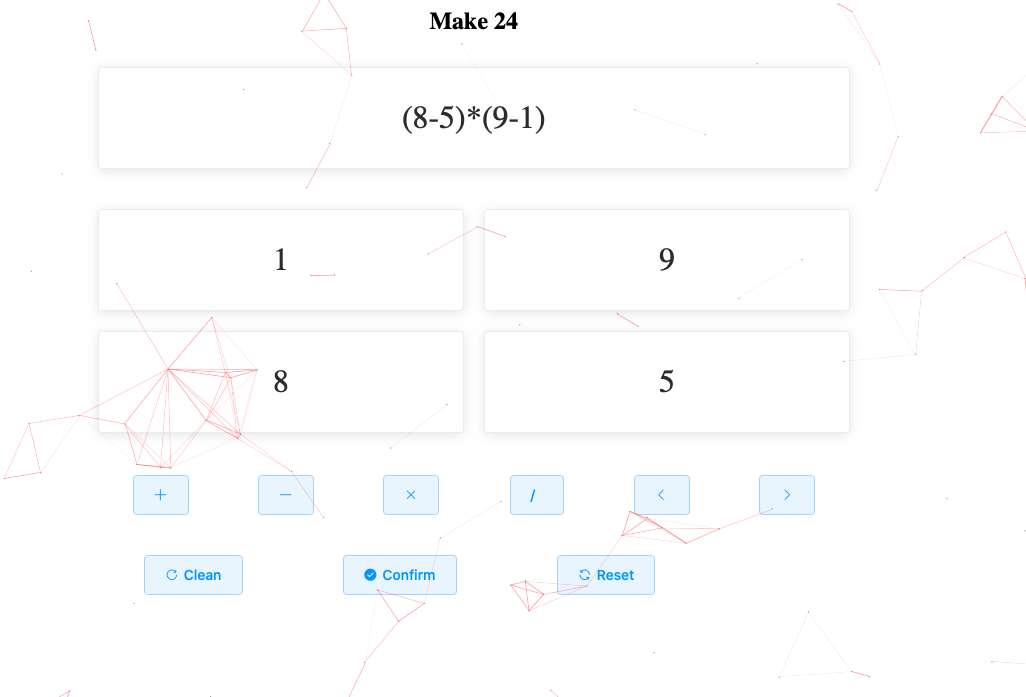
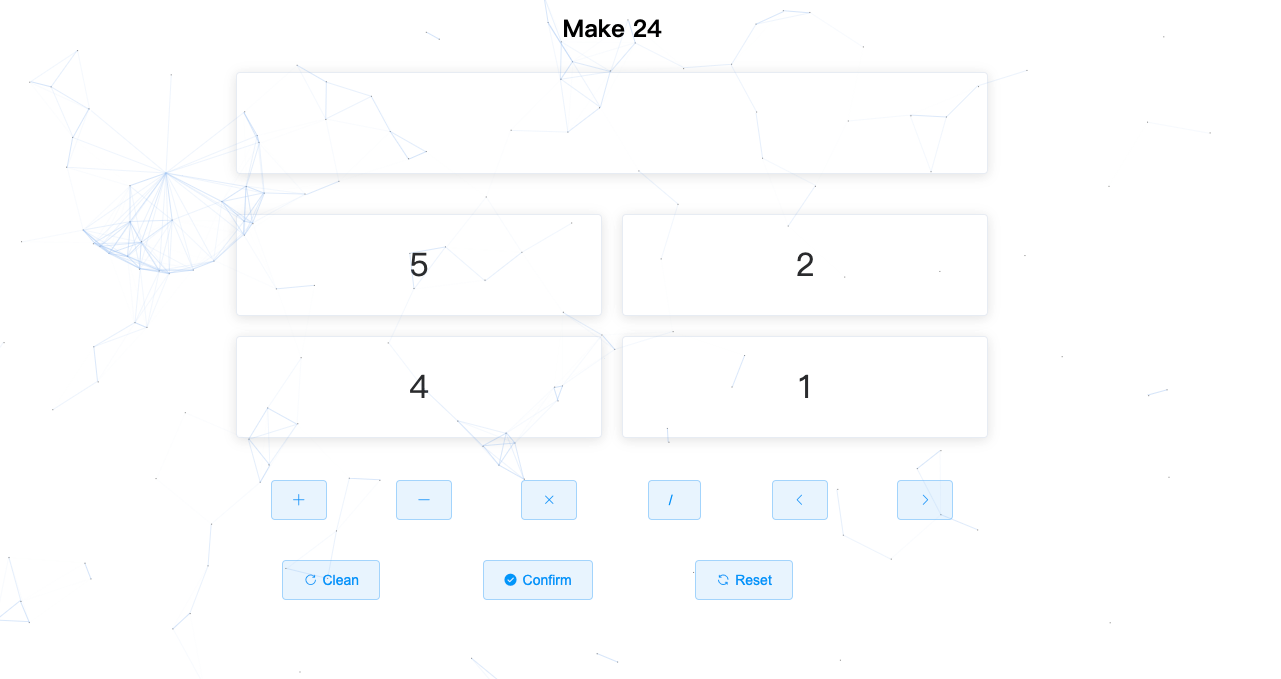
images

diff --git a/24game.html b/24game.html
@@ -3,7 +3,6 @@
 <html>
  
 	<head>
- 
 		<meta charset="utf-8"> 
 		<title>Make 24</title>
 		<script src="https://cdn.jsdelivr.net/npm/vue/dist/vue.js"></script>
@@ -12,7 +11,6 @@
 	</head>
  
 	<body>
- 
 		<div id="app" class="app">
 		    <el-container>
 				<el-header>
@@ -51,7 +49,7 @@
 		</div>
 
 		<div id="cas" style="position: absolute;width: 200px;height: 200px; left: 200px; z-index: 99999;"></div>
-		<script src="https://cdn.bootcss.com/canvas-nest.js/2.0.4/canvas-nest.js" type="text/javascript" color="255,0,0" opacity="0.5" count="200" ></script>	
+		<script src="https://cdn.bootcss.com/canvas-nest.js/2.0.4/canvas-nest.js" type="text/javascript" color="100,149,237" opacity="0.5" count="200" ></script>	
 	</body>
  
 	<script type="text/javascript">
